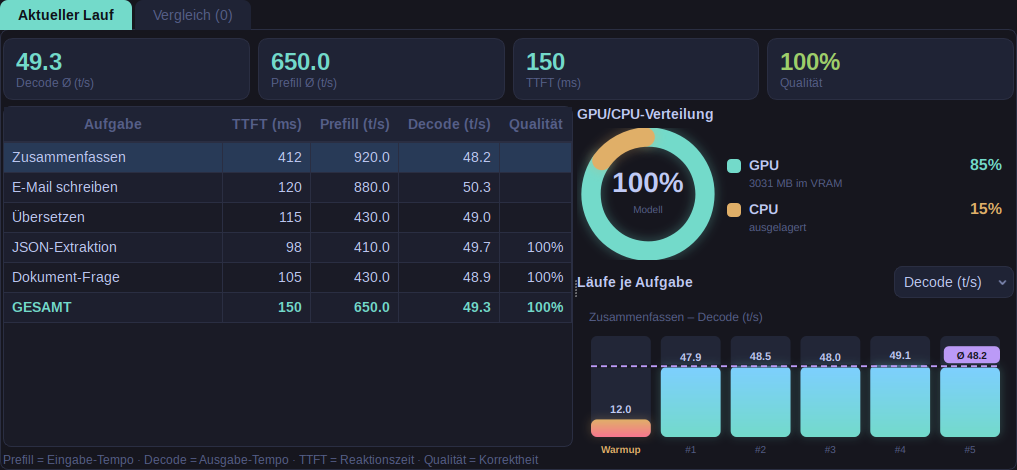
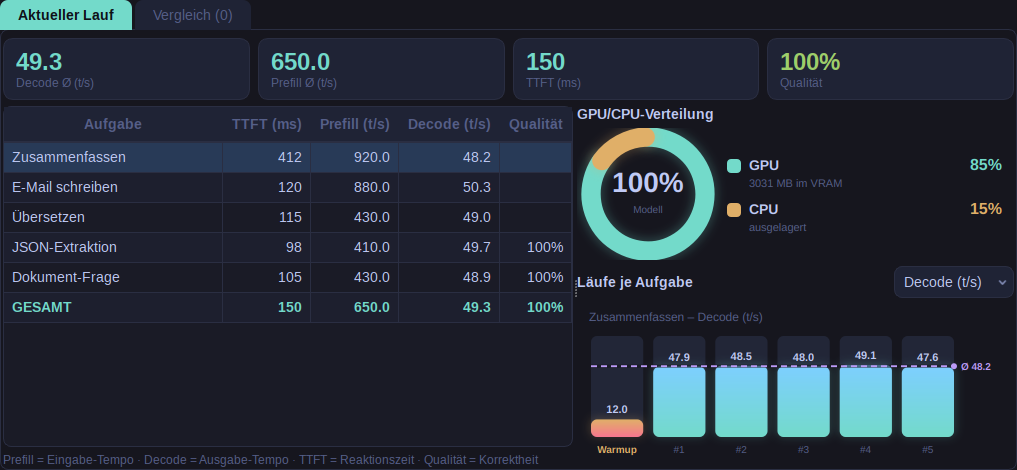
Chart: Ø-Mittelwert neben die Linie (rechter Rand), Balken schmaler
Vorher saß das Ø-Badge über dem letzten Balken. Jetzt: rechter Rand frei (Balken
etwas schmaler), Durchschnitt als Punkt + "Ø …" neben dem rechten Ende der Linie –
nichts überlappt mehr. Dashboard-Screenshots neu gerendert.

Changed region(s): [[0.5792, 0.7149, 1.0, 0.983], [0.5792, 0.9532, 0.6401, 0.983], [0.884, 0.9532, 0.9145, 0.983]]

diff --git a/svgcharts.py b/svgcharts.py
@@ -132,7 +132,7 @@ def runs(bars, avg, dec, caption, w, h):
         s.append("</svg>")
         return "\n".join(s)
 
-    left, right, top, bottom = 14, 14, 32, 30
+    left, right, top, bottom = 14, 60, 32, 30   # rechter Rand: Platz für Ø-Wert neben der Linie
     pw, ph = w - left - right, h - top - bottom
     base = top + ph
     vals = [v for _, v, _ in bars if v is not None]
@@ -163,19 +163,16 @@ def runs(bars, avg, dec, caption, w, h):
         s.append(_txt(bx + bw / 2, by - 6, fmt(val), TEXT, 11, "700", anchor="middle", mono=True))
         s.append(_txt(bx + bw / 2, base + 16, lbl, ORANGE if warm else MUTED,
                       10.5, "700" if warm else "400", anchor="middle"))
-    # Durchschnittslinie ÜBER den Balken (kräftig, mit dunkler Unterlage) + Badge rechts
+    # Durchschnittslinie ÜBER den Balken (kräftig, mit dunkler Unterlage); Ø-Wert
+    # NEBEN dem rechten Ende der Linie – im freien rechten Rand, ohne Balken-Überlappung.
     if avg:
         ay = base - (avg / vmax) * ph
         s.append(f'<line x1="{left}" y1="{ay:.1f}" x2="{left+pw}" y2="{ay:.1f}" '
                  f'stroke="{BG}" stroke-width="3.4" opacity="0.55"/>')
         s.append(f'<line x1="{left}" y1="{ay:.1f}" x2="{left+pw}" y2="{ay:.1f}" '
                  f'stroke="{PURPLE}" stroke-width="1.9" stroke-dasharray="6 4"/>')
-        txt = f"Ø {fmt(avg)}"
-        bwid = 16 + len(txt) * 6.7
-        bxr = left + pw - bwid
-        byr = ay - 20 if (ay - 20) > top else ay + 5
-        s.append(f'<rect x="{bxr:.1f}" y="{byr:.1f}" width="{bwid:.1f}" height="17" rx="5" fill="{PURPLE}"/>')
-        s.append(_txt(bxr + bwid / 2, byr + 12.5, txt, BG, 10.5, "800", anchor="middle", mono=True))
+        s.append(f'<circle cx="{left+pw:.1f}" cy="{ay:.1f}" r="3" fill="{PURPLE}"/>')
+        s.append(_txt(left + pw + 7, ay + 4, f"Ø {fmt(avg)}", PURPLE, 10.5, "800", mono=True))
     s.append("</svg>")
     return "\n".join(s)
 
